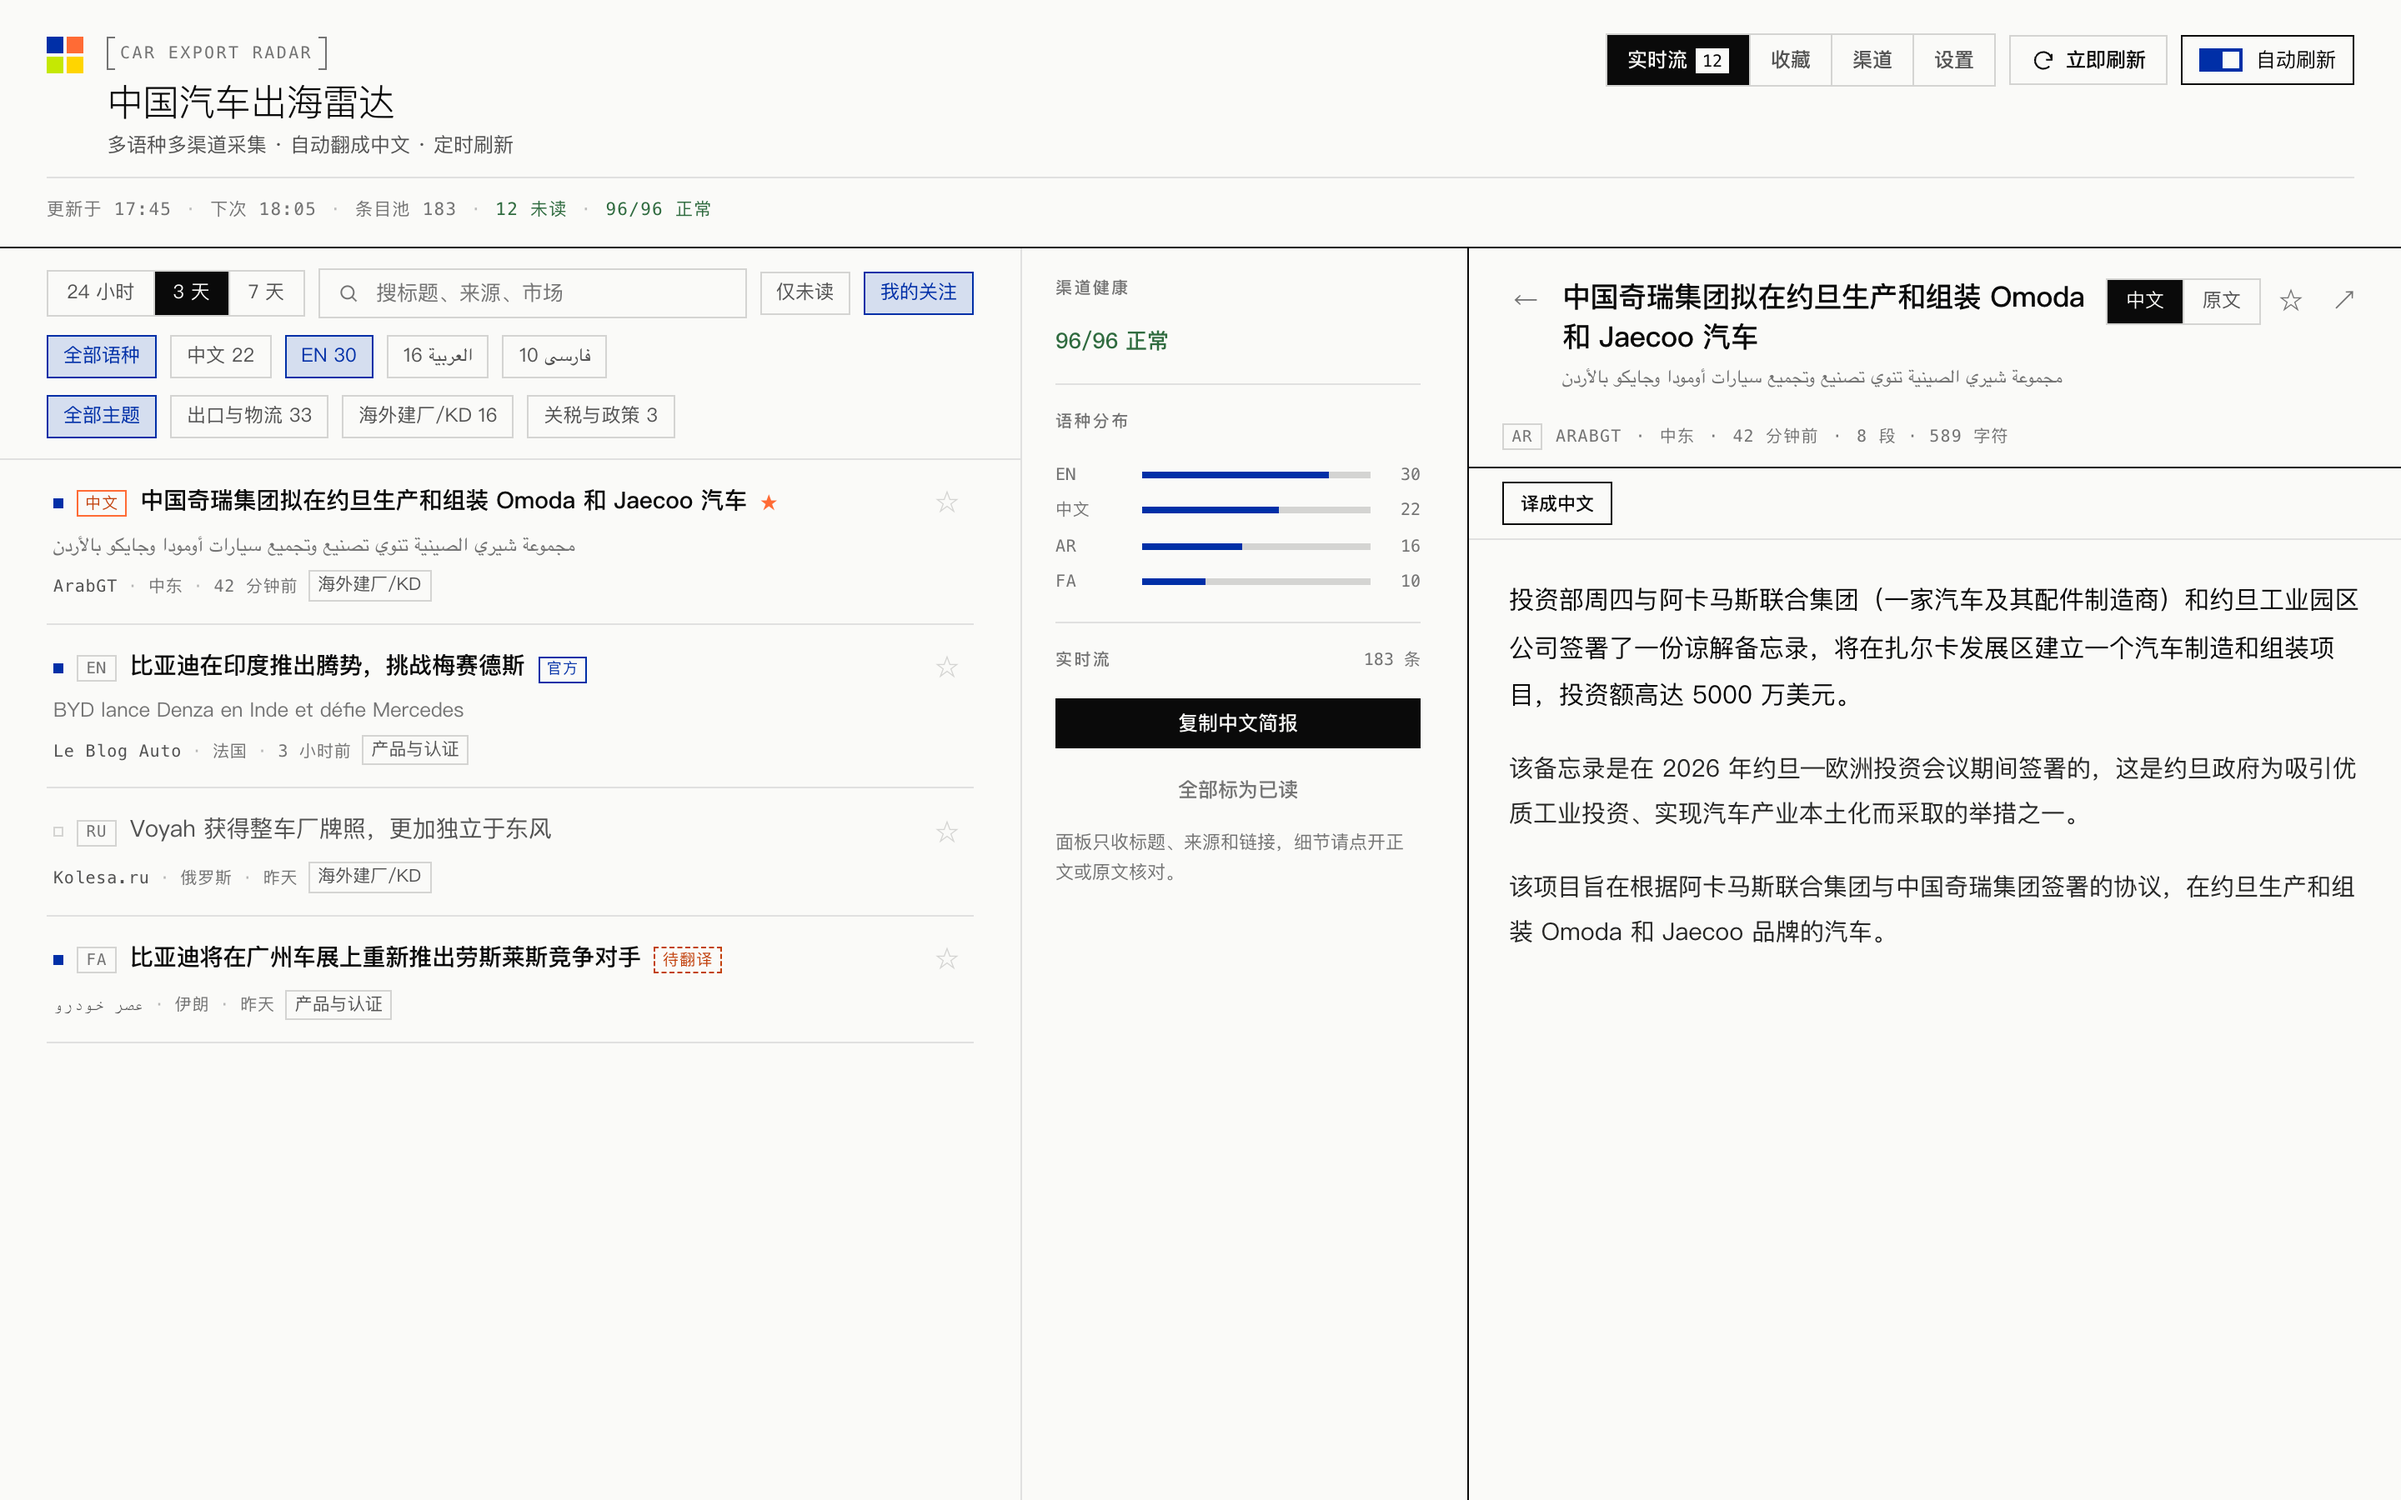
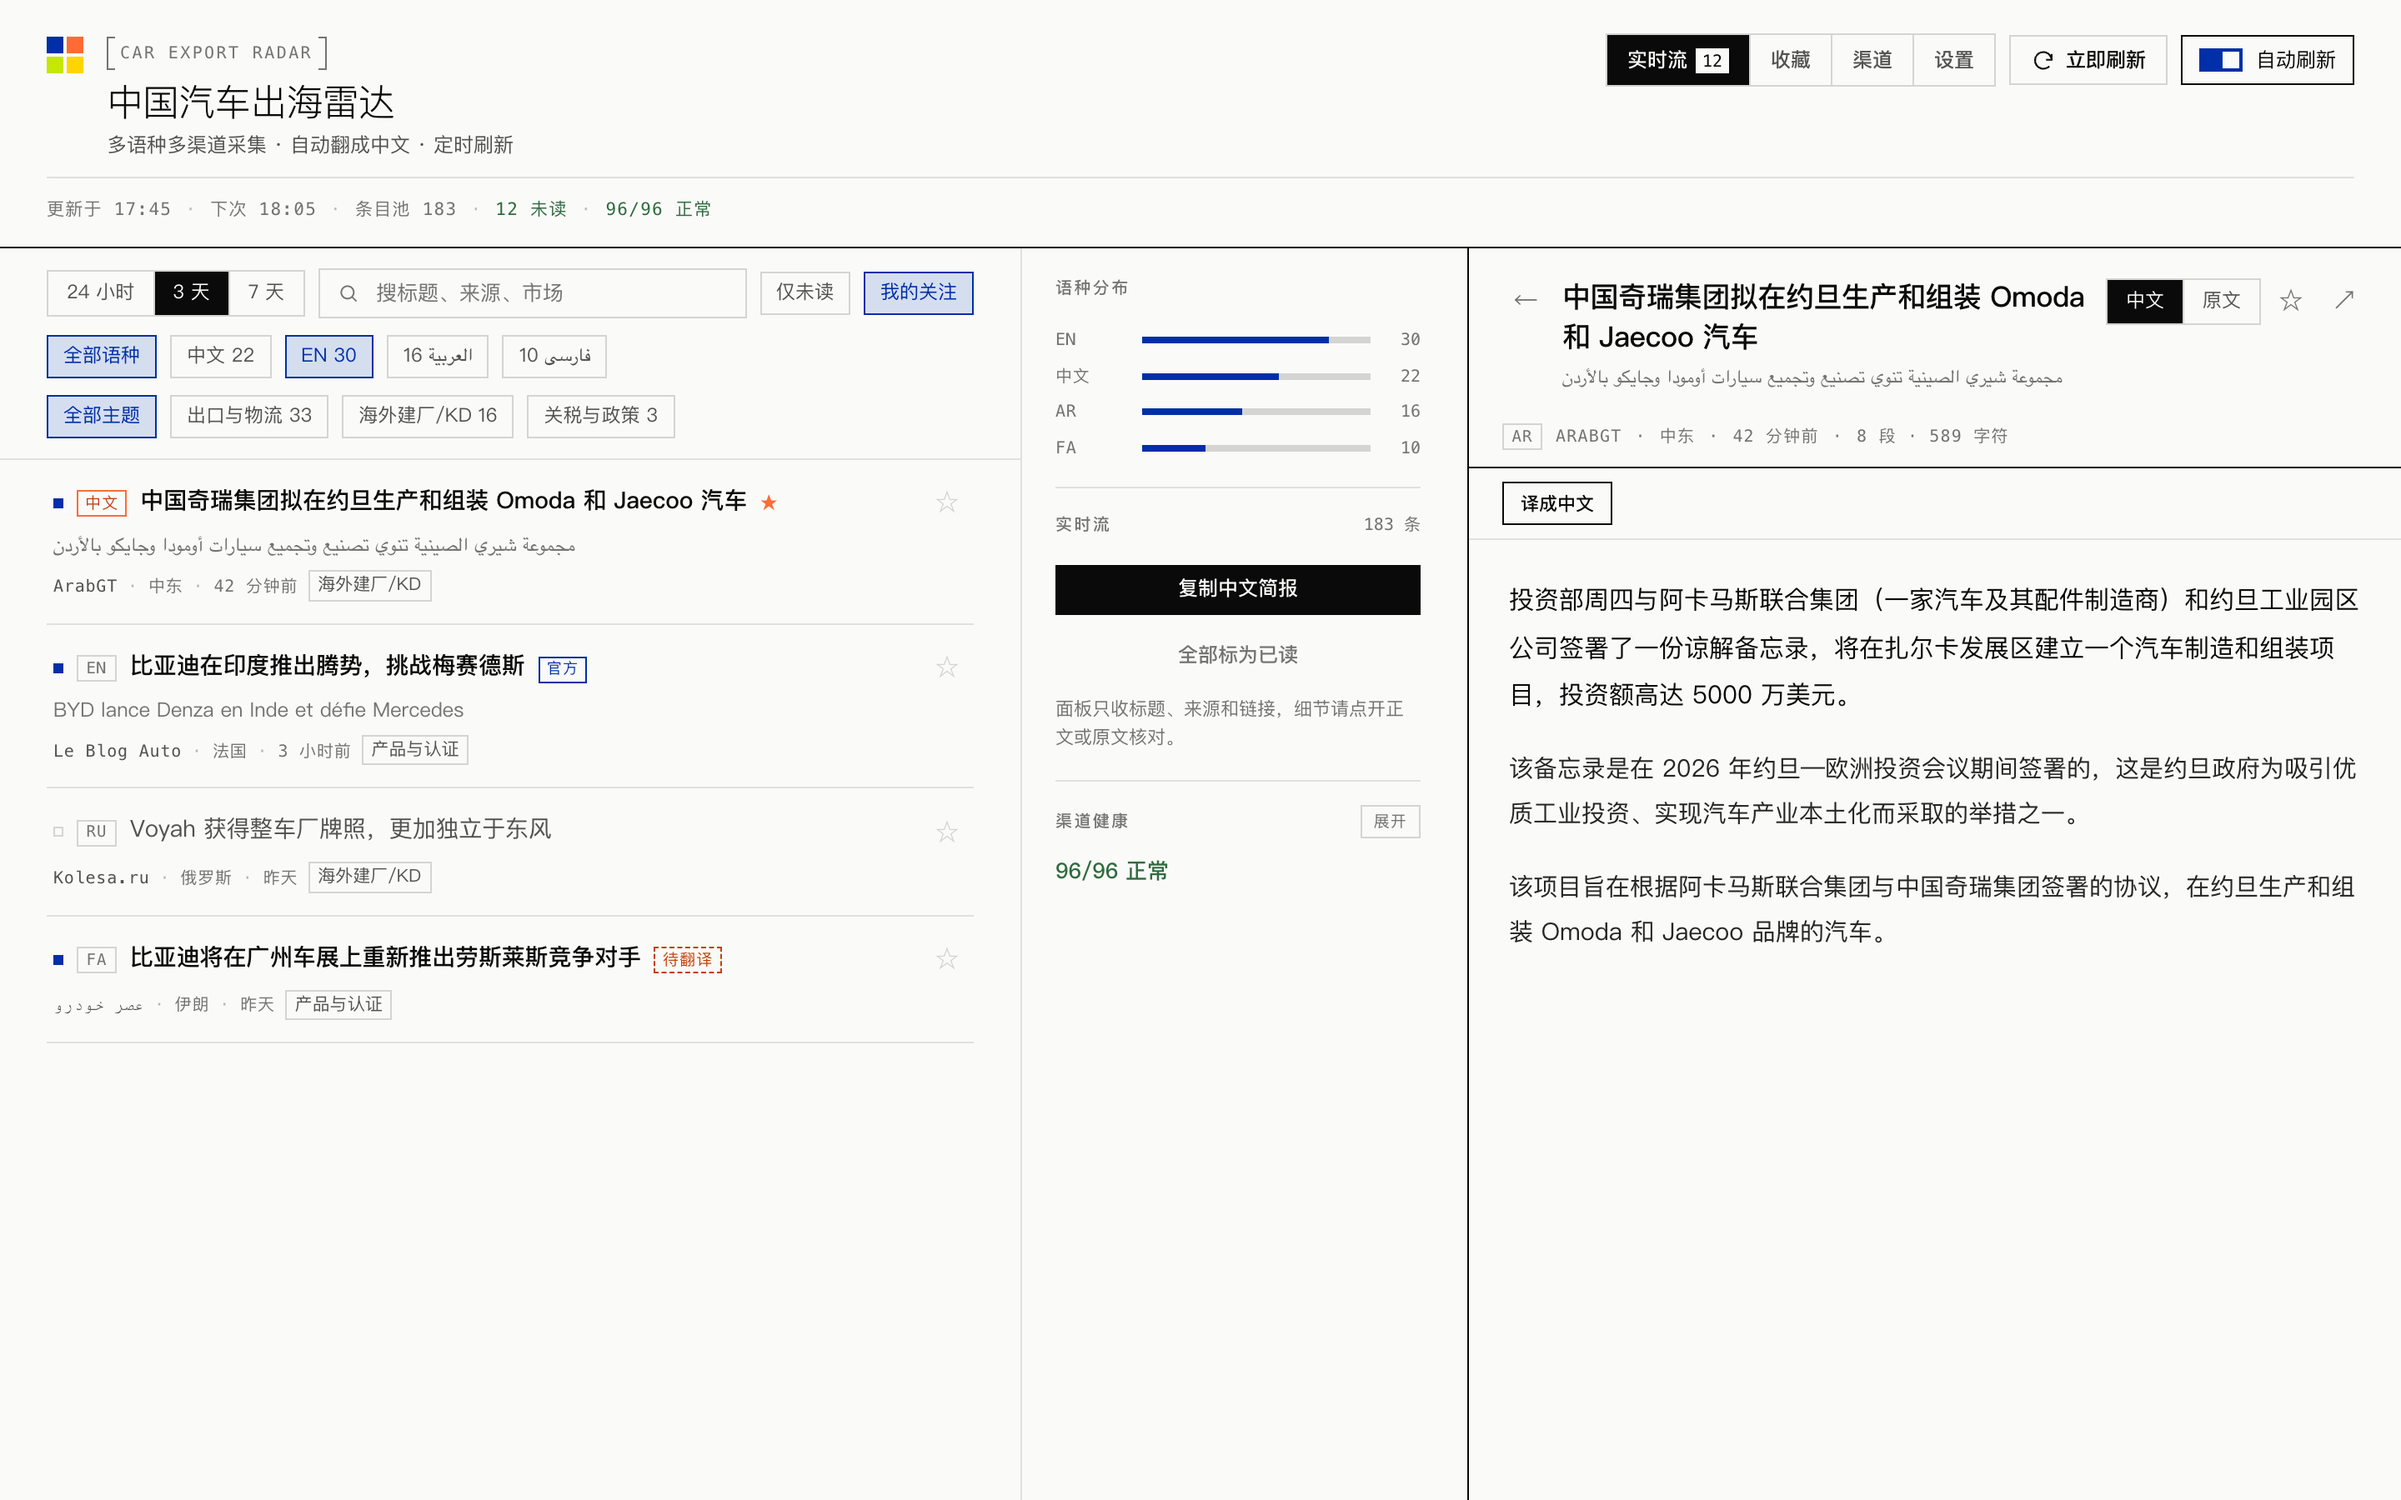
style: 渠道健康挪到右栏最下面，可折叠
- 右栏顺序改为 语种分布 → 实时流 → 渠道健康
- 渠道健康默认折叠，只留一行状态；点「展开」看失败渠道明细
- 折叠偏好存 localStorage，下次打开保持
- 更新浅色/深色界面预览

Changed region(s): [[0.4375, 0.1867, 0.5938, 0.56], [0.4375, 0.5289, 0.5, 0.5911], [0.5625, 0.5289, 0.5938, 0.56]]

diff --git a/client.js b/client.js
@@ -41,6 +41,8 @@ window.__ModuleLoader__.load({
       healthOk: '{ok}/{total} 正常',
       healthFail: '{n} 个渠道本轮异常',
       langDist: '语种分布',
+      expand: '展开',
+      collapse: '隐藏',
       open: '打开原文',
       read: '在面板里读',
       untranslated: '待翻译',
@@ -153,6 +155,8 @@ window.__ModuleLoader__.load({
       healthOk: '{ok}/{total} responding',
       healthFail: '{n} channels failed this round',
       langDist: 'By language',
+      expand: 'Show',
+      collapse: 'Hide',
       open: 'Open original',
       read: 'Read here',
       untranslated: 'Pending translation',
@@ -783,19 +787,19 @@ window.__ModuleLoader__.load({
     }
 
     function SideRail({ t, data, visible, onCopy, copied, onMarkAll, hasUnread }) {
+      const [healthOpen, setHealthOpen] = React.useState(() => {
+        try { return localStorage.getItem('aer.rail.health') === '1' } catch { return false }
+      })
       if (!data) return null
       const langs = Object.entries(data.byLang || {}).sort((a, b) => b[1] - a[1])
       const total = langs.reduce((sum, row) => sum + row[1], 0) || 1
       const failed = data.channelHealth?.failed || []
+      const toggleHealth = () => setHealthOpen((open) => {
+        const next = !open
+        try { localStorage.setItem('aer.rail.health', next ? '1' : '0') } catch { /* 忽略隐私模式写入失败 */ }
+        return next
+      })
       return el('aside', { className: 'aer-rail' },
-        el('section', { className: 'aer-card' },
-          el('h2', null, t('health')),
-          el('p', { className: failed.length ? 'aer-health is-warn' : 'aer-health is-ok' },
-            failed.length ? fill(t('healthFail'), { n: failed.length }) : fill(t('healthOk'), { ok: data.channelHealth?.ok ?? 0, total: data.channelHealth?.total ?? 0 })),
-          failed.length
-            ? el('ul', { className: 'aer-fails' }, failed.slice(0, 6).map((row) => el('li', { key: row.name },
-              el('strong', null, row.name), row.error ? el('span', null, row.error) : null)))
-            : null),
         el('section', { className: 'aer-card' },
           el('h2', null, t('langDist')),
           el('ul', { className: 'aer-bars' }, langs.map(([code, count]) => el('li', { key: code },
@@ -808,7 +812,20 @@ window.__ModuleLoader__.load({
             el('span', null, fill(t('count'), { n: visible }))),
           el('button', { type: 'button', className: 'aer-btn is-wide', onClick: onCopy }, icon('copy', 15), el('span', null, copied ? t('copied') : t('copyDigest'))),
           hasUnread ? el('button', { type: 'button', className: 'aer-btn is-wide is-quiet', onClick: onMarkAll }, t('markAllRead')) : null,
-          el('p', { className: 'aer-note' }, t('onlyTitles'))))
+          el('p', { className: 'aer-note' }, t('onlyTitles'))),
+        el('section', { className: 'aer-card aer-card-health' },
+          el('div', { className: 'aer-card-head' },
+            el('h2', null, t('health')),
+            el('button', {
+              type: 'button', className: 'aer-toggle', onClick: toggleHealth,
+              'aria-expanded': healthOpen, title: healthOpen ? t('collapse') : t('expand'),
+            }, healthOpen ? t('collapse') : t('expand'))),
+          el('p', { className: failed.length ? 'aer-health is-warn' : 'aer-health is-ok' },
+            failed.length ? fill(t('healthFail'), { n: failed.length }) : fill(t('healthOk'), { ok: data.channelHealth?.ok ?? 0, total: data.channelHealth?.total ?? 0 })),
+          healthOpen && failed.length
+            ? el('ul', { className: 'aer-fails' }, failed.slice(0, 6).map((row) => el('li', { key: row.name },
+              el('strong', null, row.name), row.error ? el('span', null, row.error) : null)))
+            : null))
     }
 
     function ChannelsView({ t, data, onSaveFeeds, onSaveSocial, onSaveOfficial, onSaveWatch, onImport, importing, message }) {
@@ -1639,6 +1656,9 @@ window.__ModuleLoader__.load({
 .aer-card h2 { font-family: var(--font-mono); font-size: 10px; font-weight: 500; letter-spacing: .12em; text-transform: uppercase; color: var(--ink-3); padding-bottom: 6px; }
 .aer-card-head { display: flex; align-items: baseline; justify-content: space-between; gap: 8px; }
 .aer-card-head span { font-family: var(--font-mono); font-size: 10px; color: var(--ink-3); }
+.aer-card-head .aer-toggle { margin-left: auto; }
+.aer-card-health { padding-bottom: 4px; }
+.aer-card-health .aer-health { margin-top: 6px; }
 .aer-health { margin-top: 8px; font-size: 13px; font-weight: 500; }
 .aer-health.is-ok { color: var(--ok); }
 .aer-health.is-warn { color: var(--warn); }
